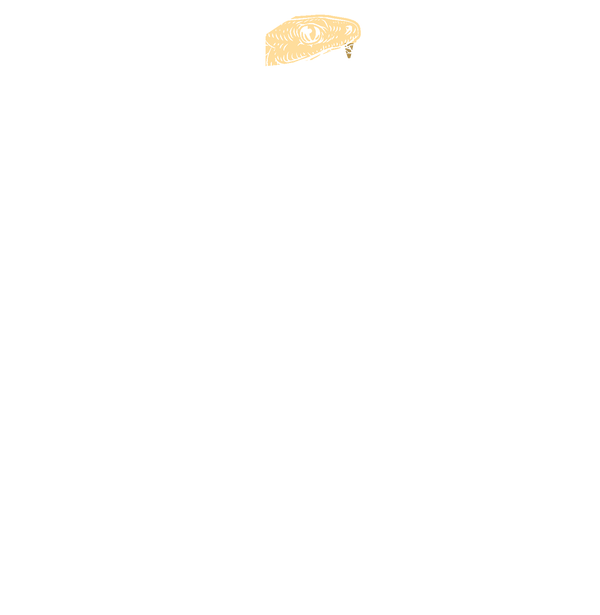
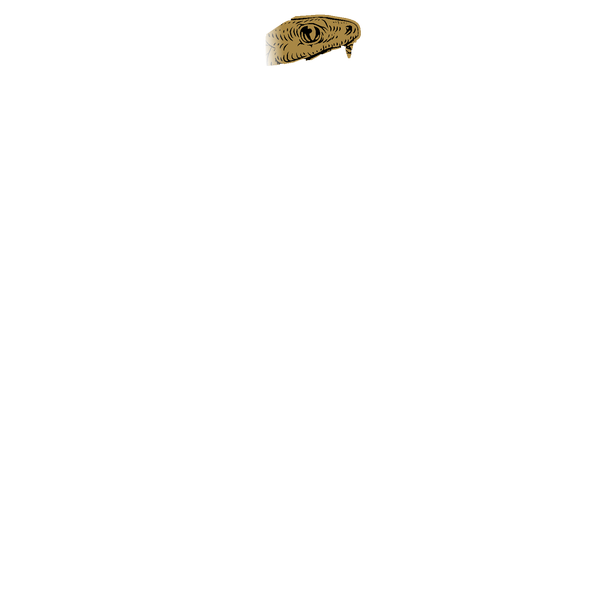
Ouroboros: body and tail stay as the original engraving and are revealed behind the travelling head; solid head/jaw so nothing shows through; feathered neck
Claude-Session: https://claude.ai/code/session_01U3qNVJzYKNiHQsjiGxyF3P

Changed region(s): [[0.42, 0.0, 0.6, 0.1236]]

diff --git a/index.html b/index.html
@@ -62,20 +62,22 @@ nav a:hover{opacity:1;text-decoration:underline;text-underline-offset:5px}
 .seal{display:grid;justify-items:start;gap:28px}
 .seal-anim{position:relative;width:min(300px,62vw);aspect-ratio:878/900}
 .seal-anim img{position:absolute;inset:0;width:100%;height:100%}
-/* Ouroboros: a complete serpent, tail and all, chases its own tail clockwise around the monogram,
-   snapping its jaw as it goes, and bites down when it catches it. One progress value (--p) drives
-   everything: the head turns a full circle while the tail trails behind and is slowly caught.
-   Geometry (degrees from the top, clockwise): the mouth sits at 10deg; the tail segment is the last
-   28deg of body (10..38deg) plus the tail tip; the body behind the head grows from 150deg to 332deg,
-   and the tail segment rides at its trailing end, offset by 182deg at the start and 0 at the end. */
-@property --p{syntax:'<number>';inherits:true;initial-value:1}
-.seal-anim .snake{position:absolute;inset:0;--p:1;transform-origin:49.94% 51.06%;transform:rotate(calc((var(--p) - 1) * 360deg));
-  animation:ouroboros 4.2s cubic-bezier(.45,.05,.3,1) .3s both,snake-in .6s ease .3s both;will-change:transform}
-.seal-anim .snake img{position:absolute;inset:0;width:100%;height:100%}
-.seal-anim .body{-webkit-mask-image:conic-gradient(from calc(10deg - 150deg - 182deg * var(--p)) at 49.94% 51.06%,#000 calc(150deg + 182deg * var(--p)),transparent 0);
-  mask-image:conic-gradient(from calc(10deg - 150deg - 182deg * var(--p)) at 49.94% 51.06%,#000 calc(150deg + 182deg * var(--p)),transparent 0)}
-.seal-anim .tail{transform-origin:49.94% 51.06%;transform:rotate(calc((1 - var(--p)) * 182deg))}
-.seal-anim .jaw{transform-origin:46.7% 10.66%;animation:chomp 4.2s linear .3s both}
+/* Ouroboros. The body and tail never move: they are the original engraving, shown progressively.
+   The tail (10..38deg from the top, clockwise) is visible from the start. The head starts just past it,
+   with its mouth at 65deg, and travels clockwise 305deg, snapping its jaw. As it goes, the body is
+   revealed behind it, from the tail up to a line hidden under the head (54deg + 305deg * p). At the
+   end the mouth (10deg) closes on the tail tip. The back of the head is feathered so the neck blends
+   into the engraved body. Each moving element animates its own --p so every browser keeps them in step. */
+@property --p{syntax:'<number>';inherits:false;initial-value:1}
+.seal-anim .snake{position:absolute;inset:0;animation:snake-in .6s ease .25s both}
+.seal-anim .snake img,.seal-anim .turn{position:absolute;inset:0;width:100%;height:100%}
+.seal-anim .turn img{position:absolute;inset:0;width:100%;height:100%}
+.seal-anim .turn{--p:1;transform-origin:49.94% 51.06%;transform:rotate(calc((var(--p) - 1) * 305deg));
+  animation:ouroboros 4.4s cubic-bezier(.45,.05,.3,1) .3s both;will-change:transform}
+.seal-anim .body{--p:1;animation:ouroboros 4.4s cubic-bezier(.45,.05,.3,1) .3s both;
+  -webkit-mask-image:conic-gradient(from 38deg at 49.94% 51.06%,#000 calc(16deg + 305deg * var(--p)),transparent 0);
+  mask-image:conic-gradient(from 38deg at 49.94% 51.06%,#000 calc(16deg + 305deg * var(--p)),transparent 0)}
+.seal-anim .jaw{transform-origin:46.7% 10.66%;animation:chomp 4.4s linear .3s both}
 @keyframes ouroboros{from{--p:0}to{--p:1}}
 @keyframes snake-in{from{opacity:0}to{opacity:1}}
 @keyframes chomp{
@@ -244,7 +246,7 @@ footer .roman{opacity:1}
   .venue{padding:24px}
   .count{gap:20px}
 }
-@media (prefers-reduced-motion:reduce){*{transition:none!important}.seal-anim .snake,.seal-anim .jaw{animation:none}}
+@media (prefers-reduced-motion:reduce){*{transition:none!important}.seal-anim .snake,.seal-anim .turn,.seal-anim .body,.seal-anim .jaw{animation:none}}
 </style>
 </head>
 <body>
@@ -259,9 +261,11 @@ footer .roman{opacity:1}
       <div class="seal-anim" role="img" aria-label="Our seal: an interlaced S and G inside a golden serpent ring, dated VI.XVIII.MMXXVII">
         <div class="snake">
           <img class="body" src="img/snake-body.png" alt="" width="300" height="307">
-          <img class="jaw" src="img/snake-jaw.png" alt="" width="300" height="307">
           <img class="tail" src="img/snake-tail.png" alt="" width="300" height="307">
-          <img class="head" src="img/snake-head.png" alt="" width="300" height="307">
+          <div class="turn">
+            <img class="jaw" src="img/snake-jaw.png" alt="" width="300" height="307">
+            <img class="head" src="img/snake-head.png" alt="" width="300" height="307">
+          </div>
         </div>
         <img class="letters" src="img/seal-letters.png" alt="" width="300" height="307">
       </div>
